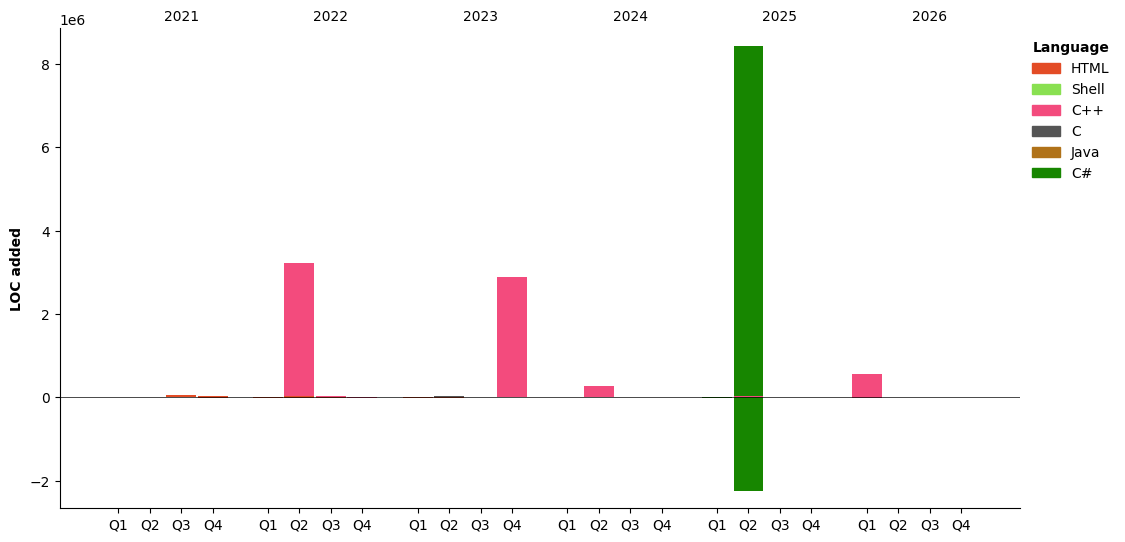
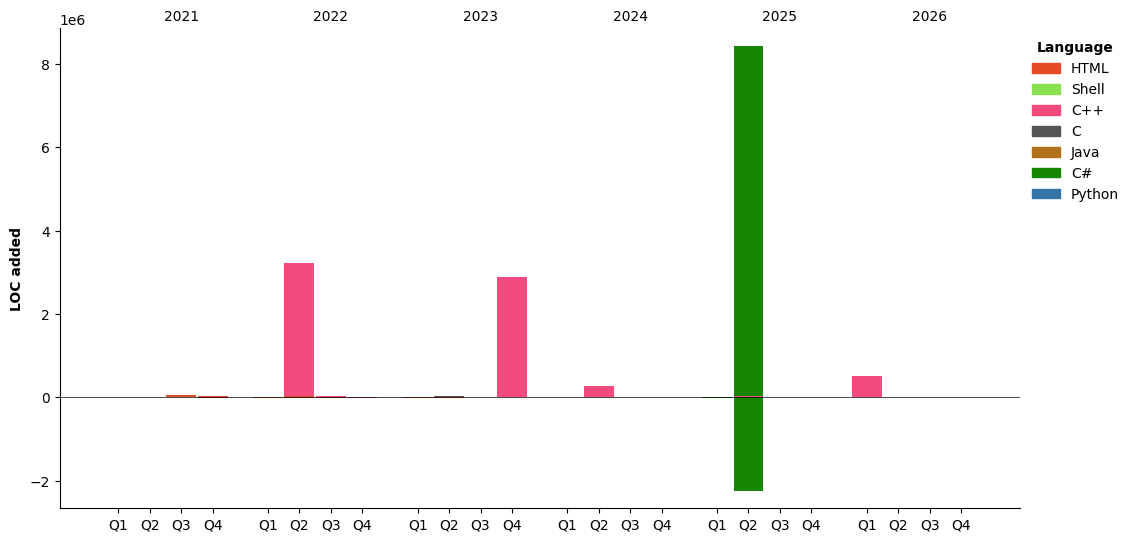
Updated with Dev Metrics

diff --git a/README.md b/README.md
@@ -17,8 +17,89 @@ Here are some ideas to get you started:
 📚 I'm currently pursuing a Master's degree in Computer Science in Tianjin University, China.
 
 <!--START_SECTION:waka-->
-![Code Time](http://img.shields.io/badge/Code%20Time-912%20hrs%2038%20mins-blue?style=flat)
+![Code Time](http://img.shields.io/badge/Code%20Time-917%20hrs%2049%20mins-blue?style=flat)
 
+![Profile Views](http://img.shields.io/badge/Profile%20Views-38-blue?style=flat)
+
+**🐱 My GitHub Data** 
+
+> 📦 ? Used in GitHub's Storage 
+ > 
+> 🏆 16 Contributions in the Year 2026
+ > 
+> 🚫 Not Opted to Hire
+ > 
+> 📜 17 Public Repositories 
+ > 
+> 🔑 0 Private Repositories 
+ > 
+**I'm a Night 🦉** 
+
+```text
+🌞 Morning                115 commits         ██░░░░░░░░░░░░░░░░░░░░░░░   09.82 % 
+🌆 Daytime                394 commits         ████████░░░░░░░░░░░░░░░░░   33.65 % 
+🌃 Evening                501 commits         ███████████░░░░░░░░░░░░░░   42.78 % 
+🌙 Night                  161 commits         ███░░░░░░░░░░░░░░░░░░░░░░   13.75 % 
+```
+📅 **I'm Most Productive on Thursday** 
+
+```text
+Monday                   160 commits         ███░░░░░░░░░░░░░░░░░░░░░░   13.66 % 
+Tuesday                  192 commits         ████░░░░░░░░░░░░░░░░░░░░░   16.40 % 
+Wednesday                135 commits         ███░░░░░░░░░░░░░░░░░░░░░░   11.53 % 
+Thursday                 253 commits         █████░░░░░░░░░░░░░░░░░░░░   21.61 % 
+Friday                   131 commits         ███░░░░░░░░░░░░░░░░░░░░░░   11.19 % 
+Saturday                 135 commits         ███░░░░░░░░░░░░░░░░░░░░░░   11.53 % 
+Sunday                   165 commits         ████░░░░░░░░░░░░░░░░░░░░░   14.09 % 
+```
+
+
+📊 **This Week I Spent My Time On** 
+
+```text
+🕑 Time Zone: Asia/Shanghai
+
+💬 Programming Languages: 
+Python                   28 hrs 15 mins      ███████████████████░░░░░░   76.32 % 
+C++                      3 hrs 45 mins       ███░░░░░░░░░░░░░░░░░░░░░░   10.16 % 
+C#                       1 hr 52 mins        █░░░░░░░░░░░░░░░░░░░░░░░░   05.07 % 
+JSON                     1 hr 20 mins        █░░░░░░░░░░░░░░░░░░░░░░░░   03.62 % 
+Bash                     43 mins             ░░░░░░░░░░░░░░░░░░░░░░░░░   01.96 % 
+
+🔥 Editors: 
+VS Code                  36 hrs 41 mins      █████████████████████████   99.13 % 
+Visual Studio            19 mins             ░░░░░░░░░░░░░░░░░░░░░░░░░   00.87 % 
+
+🐱💻 Projects: 
+GaussianMarker           26 hrs 17 mins      ██████████████████░░░░░░░   71.02 % 
+KeySS                    2 hrs 33 mins       ██░░░░░░░░░░░░░░░░░░░░░░░   06.90 % 
+Homogeneous              2 hrs 28 mins       ██░░░░░░░░░░░░░░░░░░░░░░░   06.70 % 
+Homogeneours_New         1 hr 57 mins        █░░░░░░░░░░░░░░░░░░░░░░░░   05.28 % 
+Emoji Survivor           1 hr 42 mins        █░░░░░░░░░░░░░░░░░░░░░░░░   04.60 % 
+
+💻 Operating System: 
+Linux                    30 hrs 20 mins      ████████████████████░░░░░   81.95 % 
+Windows                  6 hrs 41 mins       █████░░░░░░░░░░░░░░░░░░░░   18.05 % 
+```
+
+**I Mostly Code in C++** 
+
+```text
+C++                      5 repos             █████████░░░░░░░░░░░░░░░░   35.71 % 
+C                        3 repos             █████░░░░░░░░░░░░░░░░░░░░   21.43 % 
+Python                   1 repo              ██░░░░░░░░░░░░░░░░░░░░░░░   07.14 % 
+C#                       1 repo              ██░░░░░░░░░░░░░░░░░░░░░░░   07.14 % 
+Java                     1 repo              ██░░░░░░░░░░░░░░░░░░░░░░░   07.14 % 
+```
+
+
+
+**Timeline**
+
+![Lines of Code chart](https://raw.githubusercontent.com/Eykenis/Eykenis/main/assets/bar_graph.png)
+
+
+ Last Updated on 23/02/2026 19:38:48 UTC
 <!--END_SECTION:waka-->
 
 ### Researching
